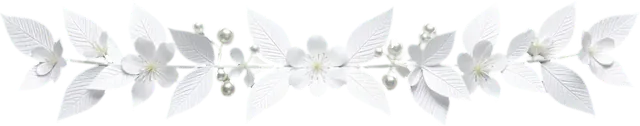
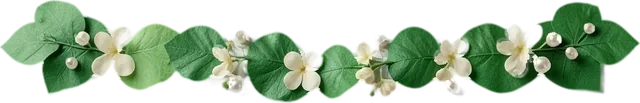
Mẫu 3: trang trí giấy 3D theo chủ đề trầu cau (lá trầu, quả cau, hoa cau), khung hoa văn vàng
Claude-Session: https://claude.ai/code/session_01V4RDDV9jqM6BBijw6Ese9L

diff --git a/my-wed/src/templates/t03/styles.scss b/my-wed/src/templates/t03/styles.scss
@@ -1,6 +1,6 @@
 $filigree: url("@/static/t03/filigree.webp");
-$rose: #b0645a;
-$roseline: rgba(176, 100, 90, 0.5);
+$rose: #8e1b22;
+$roseline: rgba(201, 150, 63, 0.6);
 
 // Template 03: Trầu cau. The Vietnamese betrothal: a real red tray of betel quids, real heart-shaped
 // betel leaves; deep red, leaf green and gold on cream; photos in leaf-shaped frames; 囍 seal.
@@ -578,19 +578,19 @@ $roseline: rgba(176, 100, 90, 0.5);
 
 // ---------- the inside: pearl paper, rose-gold filigree, paper flowers (after the red tray) ----------
 .t03-pearl {
-  --k-bg: #f6eee9;
-  --k-ink: #4b2b28;
-  --k-muted: #8f6c64;
+  --k-bg: #f8f1e3;
+  --k-ink: #3a1d17;
+  --k-muted: #86655a;
   --k-accent: #{$rose};
-  --k-line: #ead6cc;
-  --k-card: #fffaf7;
+  --k-line: #e6d4b8;
+  --k-card: #fffaf0;
   position: relative;
   z-index: 1;
   padding: 16px 0 10px;
   background:
-    radial-gradient(90% 40% at 0 20%, rgba(255, 214, 226, 0.45), transparent 70%),
-    radial-gradient(90% 40% at 100% 60%, rgba(226, 214, 255, 0.4), transparent 70%),
-    #f6eee9;
+    radial-gradient(90% 40% at 0 20%, rgba(255, 220, 190, 0.45), transparent 70%),
+    radial-gradient(90% 40% at 100% 60%, rgba(214, 232, 196, 0.45), transparent 70%),
+    #f8f1e3;
   color: var(--k-ink);
 
   .t03-title {
@@ -601,15 +601,7 @@ $roseline: rgba(176, 100, 90, 0.5);
     color: $rose;
   }
   .t03-quote {
-    color: #9a4f4a;
-  }
-  // rose-gold seal and heart rim instead of yellow gold
-  .t03-hy {
-    background: radial-gradient(circle at 35% 30%, #fbe3d8, #d49a88 55%, #a8665a);
-    color: #8e2a2a;
-  }
-  .t03-heart-frame {
-    background: linear-gradient(135deg, #b97a68, #f6d6c8 40%, #cf9584 65%, #f8e2d8);
+    color: #3f6b2a;
   }
   .t03-heart {
     width: 78%;
@@ -636,15 +628,15 @@ $roseline: rgba(176, 100, 90, 0.5);
   margin: 30px -8px 40px;
   padding: 62px 24px 78px;
   background:
-    radial-gradient(55% 35% at 28% 22%, rgba(200, 176, 255, 0.4), transparent 70%),
-    radial-gradient(50% 35% at 78% 34%, rgba(255, 168, 204, 0.38), transparent 70%),
-    radial-gradient(60% 40% at 72% 78%, rgba(255, 214, 150, 0.38), transparent 70%),
-    radial-gradient(50% 30% at 22% 70%, rgba(168, 210, 255, 0.3), transparent 70%),
-    #fffaf7;
+    radial-gradient(55% 35% at 28% 22%, rgba(206, 230, 180, 0.45), transparent 70%),
+    radial-gradient(50% 35% at 78% 34%, rgba(255, 196, 170, 0.4), transparent 70%),
+    radial-gradient(60% 40% at 72% 78%, rgba(255, 214, 140, 0.45), transparent 70%),
+    radial-gradient(50% 30% at 22% 70%, rgba(255, 230, 190, 0.4), transparent 70%),
+    #fffaf0;
   border: 1px solid $roseline;
   box-shadow:
-    inset 0 0 0 7px #fffaf7,
-    inset 0 0 0 8px rgba(176, 100, 90, 0.3),
+    inset 0 0 0 7px #fffaf0,
+    inset 0 0 0 8px rgba(201, 150, 63, 0.4),
     0 22px 44px rgba(150, 80, 70, 0.12);
   text-align: center;
 }
@@ -685,14 +677,14 @@ $roseline: rgba(176, 100, 90, 0.5);
   filter: drop-shadow(0 10px 14px rgba(120, 70, 60, 0.18));
 }
 .t03-bloom-a {
-  top: -64px;
-  left: -34px;
-  width: 186px;
+  top: -86px;
+  left: -40px;
+  width: 190px;
 }
 .t03-bloom-b {
   right: -30px;
-  bottom: -62px;
-  width: 158px;
+  bottom: -66px;
+  width: 150px;
 }
 .t03-flip {
   .t03-bloom-a {
@@ -702,6 +694,7 @@ $roseline: rgba(176, 100, 90, 0.5);
   }
   .t03-bloom-b {
     right: auto;
+    bottom: -88px;
     left: -30px;
     transform: scaleX(-1);
   }
@@ -732,7 +725,7 @@ $roseline: rgba(176, 100, 90, 0.5);
     font-weight: 500;
     letter-spacing: 0.22em;
     text-transform: uppercase;
-    color: #8a4f47;
+    color: #6b3a22;
   }
   b {
     font-family: var(--k-display);
@@ -750,8 +743,8 @@ $roseline: rgba(176, 100, 90, 0.5);
   background: rgba(255, 250, 247, 0.92);
   border: 1px solid $roseline;
   box-shadow:
-    inset 0 0 0 6px #fffaf7,
-    inset 0 0 0 7px rgba(176, 100, 90, 0.25),
+    inset 0 0 0 6px #fffaf0,
+    inset 0 0 0 7px rgba(201, 150, 63, 0.35),
     0 16px 32px rgba(150, 80, 70, 0.09);
 
   &::before,
@@ -806,7 +799,7 @@ $roseline: rgba(176, 100, 90, 0.5);
 .t03-pearl .t03-album .t03-leaf {
   padding: 5px;
   border-radius: 12px;
-  background: #fffaf7;
+  background: #fffaf0;
   box-shadow:
     inset 0 0 0 1px $roseline,
     0 12px 24px rgba(150, 80, 70, 0.12);

diff --git a/docs/CREDITS.md b/docs/CREDITS.md
@@ -110,4 +110,4 @@ Video đồng hoa do chủ repo tự làm và cho phép dùng: bản thử ở `
 
 ## Mẫu 3 · Trầu cau (`my-wed/design/t03/art/`, chép sang `src/static/t03/`)
 
-Toàn bộ tranh do AI vẽ (model FLUX.2 [klein] 4B của Black Forest Labs, giấy phép **Apache 2.0**, chạy trên Cloudflare Workers AI của chủ repo). Hai mâm trầu cau (`tray.webp`, `tray-end.webp`) vẽ bằng chế độ ảnh tham chiếu của model, theo ảnh mâm quả chủ repo gửi để quả cau ra đúng hình; ảnh tham chiếu không lưu trong repo. Khăn đỏ thêu vàng `cloth.webp` vẽ không có chữ, chữ 囍 thêm bằng code. Phần nội dung trang trí theo ảnh tham khảo chủ repo gửi (chỉ lấy phong cách, ảnh không lưu trong repo): hoa giấy `bloom-a.webp`, `bloom-b.webp`, `sprig.webp` vẽ trên nền trơn rồi tách nền bằng `scripts/design/cutout.py` (rembg, isnet-general-use); hoa văn vàng hồng `filigree.webp`, `crest.webp` vẽ trên nền đen rồi tách nền bằng `scripts/design/ai_art.py --paper dark --alpha`. Các bản vẽ cũ (lá trầu, dải thêu, nền lụa) vẫn để ở `design/t03/art/`. Dùng thương mại được, không bắt buộc ghi nguồn.
+Toàn bộ tranh do AI vẽ (model FLUX.2 [klein] 4B của Black Forest Labs, giấy phép **Apache 2.0**, chạy trên Cloudflare Workers AI của chủ repo). Hai mâm trầu cau (`tray.webp`, `tray-end.webp`) vẽ bằng chế độ ảnh tham chiếu của model, theo ảnh mâm quả chủ repo gửi để quả cau ra đúng hình; ảnh tham chiếu không lưu trong repo. Khăn đỏ thêu vàng `cloth.webp` vẽ không có chữ, chữ 囍 thêm bằng code. Phần nội dung trang trí theo ảnh tham khảo chủ repo gửi (chỉ lấy phong cách, ảnh không lưu trong repo): chùm hoa cau `bloom-a.webp`, cụm lá trầu quả cau `bloom-b.webp`, dải lá trầu `sprig.webp` làm bằng giấy, vẽ trên nền trơn (quả cau theo ảnh mâm trầu `tray.webp` làm ảnh tham chiếu) rồi tách nền bằng `scripts/design/cutout.py` (rembg, isnet-general-use); hoa văn `filigree.webp`, `crest.webp` vẽ trên nền đen, tách nền bằng `scripts/design/ai_art.py --paper dark --alpha` rồi đổi sang màu vàng bằng code. Các bản vẽ cũ (lá trầu, dải thêu, nền lụa) vẫn để ở `design/t03/art/`. Dùng thương mại được, không bắt buộc ghi nguồn.
